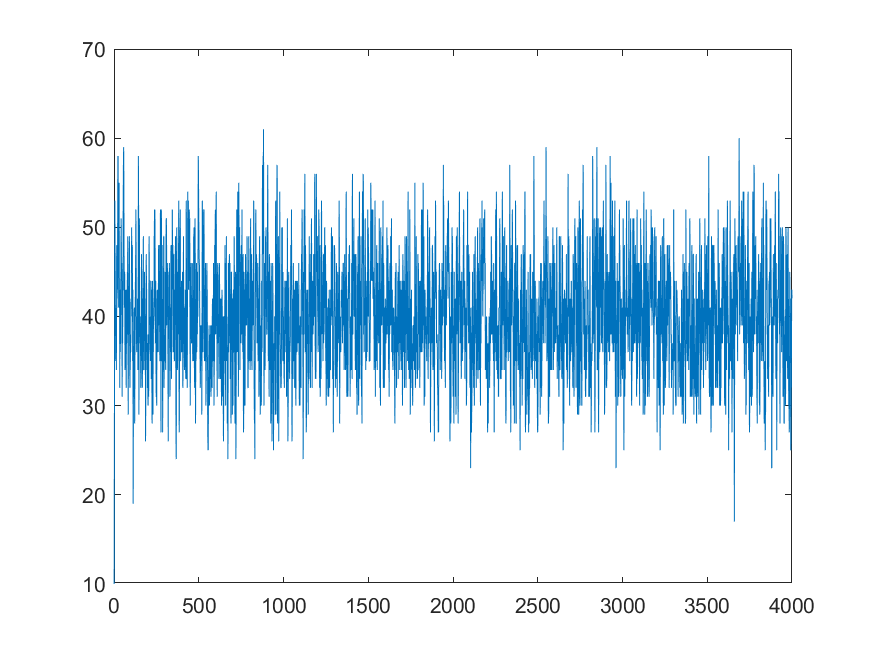
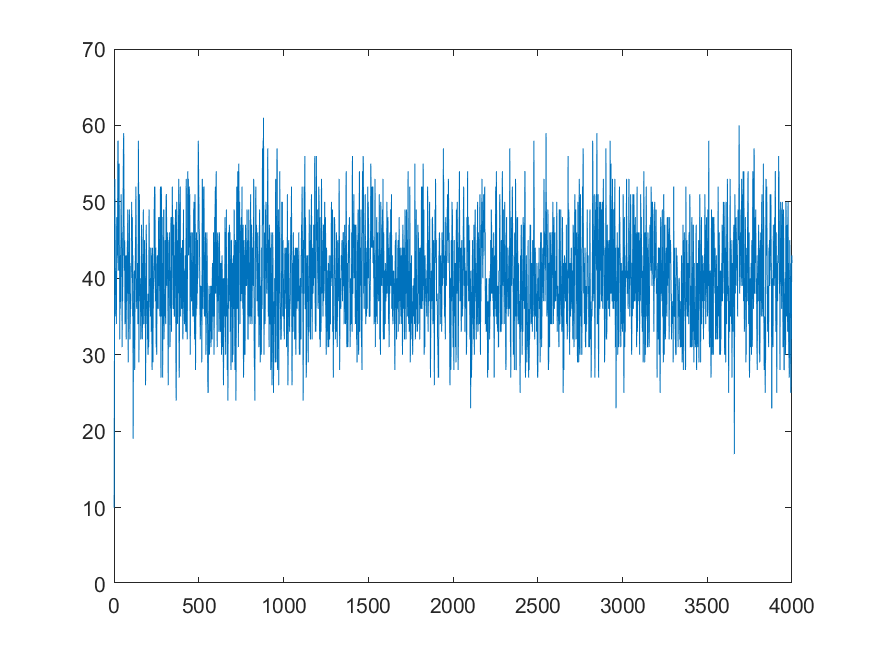
First submission T1

diff --git a/A2/T1/DataAnalysis.m b/A2/T1/DataAnalysis.m
@@ -8,7 +8,7 @@ for i=1:6
 
     figure;
     plot(t(:, 2));
-    if i == 4
+    if i >= 4
         % Plot 4 y range differs from 5-6 without this
         ylim([0 70]);
     end
@@ -38,16 +38,21 @@ end
 % the probability along with the threshold.
 function [min, max] = thresholds(percentile, A, i)
     imageFile = sprintf('./results/Task-%d-threshold.png', i);
-
-    srtd = sort(A);
-    [M, ~] = size(srtd);
+    
+    % Remove the 20 first values since they might be in the transient phase
+    [M, ~] = size(A);
+    valid = A(20:M);
+    M = M - 20;
+    
+    srtd = sort(valid);
     remove = round(M*(100-percentile)/200);
-    min = srtd(remove);
+    min = srtd(remove + 1);
     max = srtd(M-remove);
     
     figure;
     plot(srtd);
     yline(min, 'r');
     yline(max, 'r');
+    ylim([0 70]);
     saveas(gcf, imageFile)
 end

diff --git a/A2/T1/README.md b/A2/T1/README.md
@@ -1,25 +1,25 @@
 # Task 1
 
-### 1) How long is approximately the transient phase?
-> Approximately 100 seconds.
+## 1) How long is approximately the transient phase?
+Approximately 100 seconds.
 
 
-### 2) How long is the transient phase now?
-> Approximately 10 seconds.
+## 2) How long is the transient phase now?
+Approximately 10 seconds.
 
 
-### 3) How long is the transient phase in this case?
-> Approximately 200 seconds.
+## 3) How long is the transient phase in this case?
+Approximately 200 seconds.
 
 
-### 4) Find the length of the 95 % confidence interval.
-> The minimum and maximum thresholds are 29-52
+## 4) Find the length of the 95 % confidence interval.
+The minimum and maximum thresholds are 29-52 which gives a length of 23.95% of the time the amount of customers will vary from the mean by 23/2 customers.
 
 
-### 5) How long will the confidence interval be? Explain the result.
-> The minimum and maximum thresholds are 28-53
+## 5) How long will the confidence interval be? Explain the result.
+The minimum and maximum thresholds are 28-53 which gives a length of 25. The length remains roughly the same but the interval seems slightly larger.
 
 
-### 6) How long is the confidence interval? Explain the result.
-> The minimum and maximum thresholds are 28-53
+## 6) How long is the confidence interval? Explain the result.
+The minimum and maximum thresholds are 28-53 which gives a length of 25. It seems like increasing the time between measurements does not affect the variance of the measurements.
 
